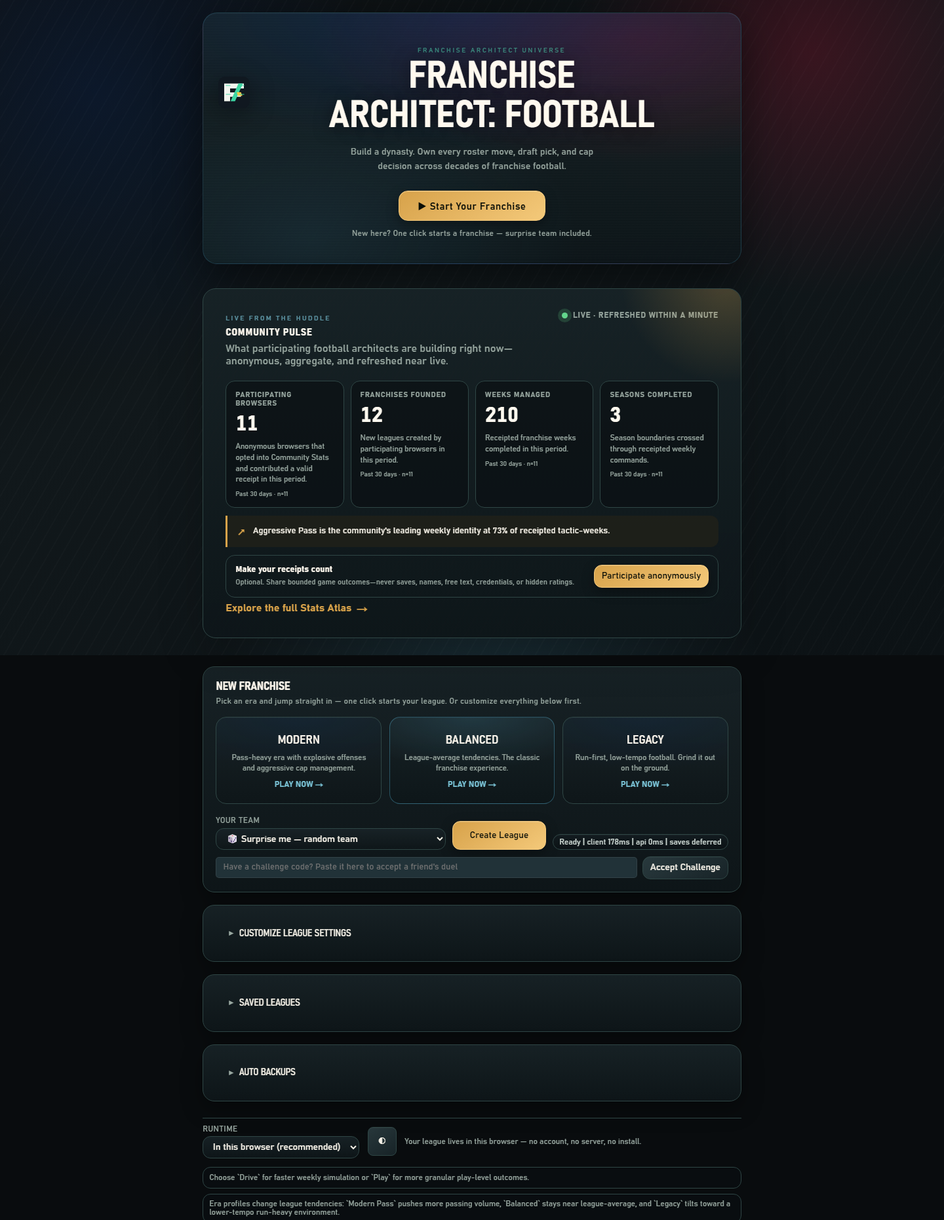
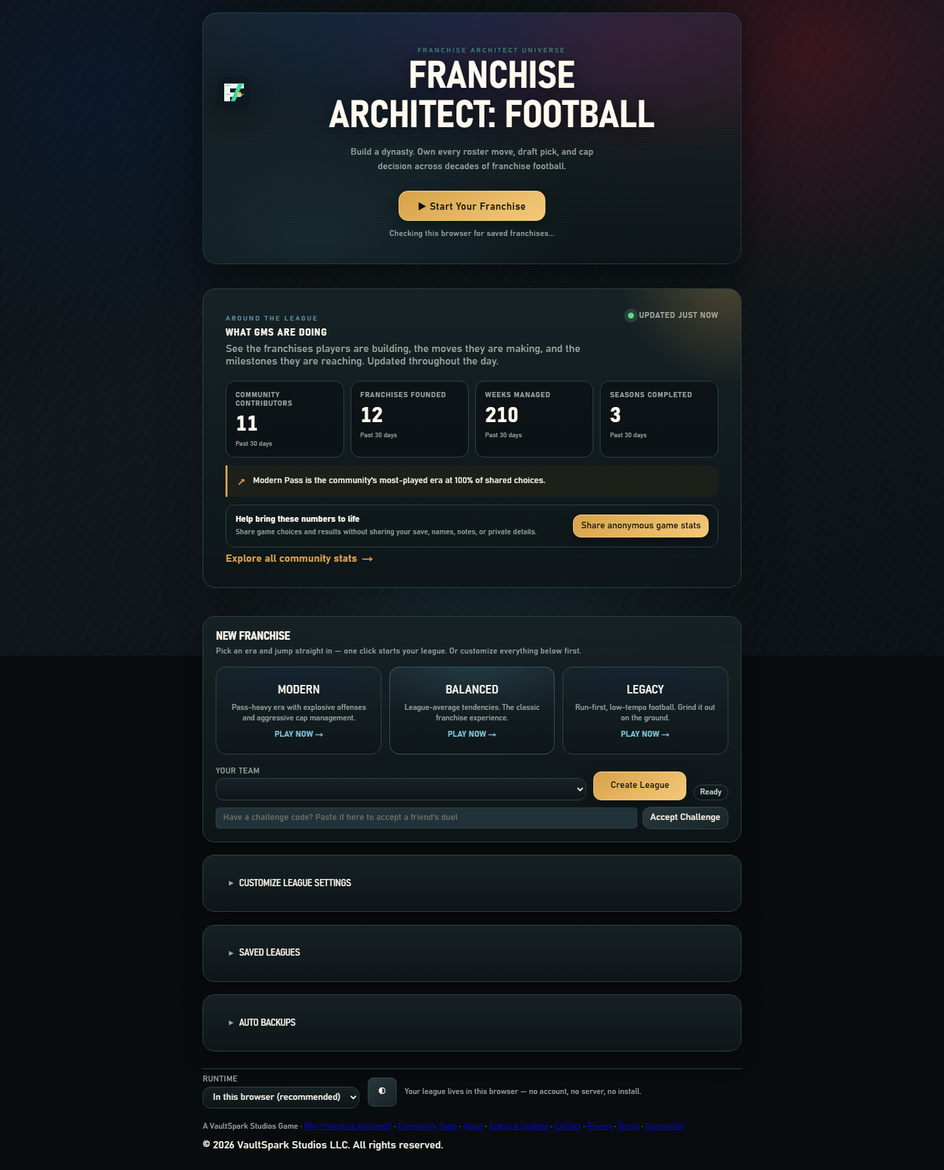
fix: make community stats player friendly

diff --git a/public/community-stats.js b/public/community-stats.js
@@ -1,6 +1,46 @@
 import { COMMUNITY_ENDPOINT, getCommunityParticipation, getLocalCommunityLedger, setCommunityParticipation } from "./lib/communityTelemetry.js";
 
 const PERIOD_LABELS = { "24h": "24 hours", "7d": "7 days", "30d": "30 days" };
+const PLAYER_STAT_LABELS = Object.freeze({
+  "participating-browsers": "Community contributors",
+  "top-era": "Most-played era",
+  "top-archetype": "Most-played franchise challenge",
+  "top-difficulty": "Most-played difficulty",
+  "top-mode": "Most-played simulation mode",
+  "top-tactic": "Most-used weekly approach",
+  "gm-decisions": "GM decisions",
+  "top-contract-band": "Most common contract range",
+  "top-staff-role": "Most-changed coaching role",
+  "playoff-berths": "Playoff-level seasons"
+});
+const PLAYER_STAT_DESCRIPTIONS = Object.freeze({
+  "participating-browsers": "Players who chose to share anonymous game stats during this period.",
+  "franchises-founded": "New franchises started by community contributors.",
+  "weeks-managed": "In-game weeks completed across shared franchises.",
+  "seasons-completed": "Full seasons completed across shared franchises.",
+  "gm-decisions": "Weekly plans that included a General Manager decision.",
+  "trades-completed": "Trades completed by community contributors.",
+  "draft-picks": "Draft selections made by community contributors.",
+  "free-agents-signed": "Free agents signed by community contributors.",
+  "contracts-completed": "Re-signings, negotiations, restructures, tags, and fifth-year options.",
+  "staff-moves": "Coaching changes made by community contributors.",
+  "wins": "Wins earned by community-controlled teams.",
+  "championships": "Championship seasons completed by community contributors.",
+  "playoff-berths": "Seasons with at least nine regular-season wins, used here as a simple playoff-level benchmark.",
+  "challenges-completed": "Speedruns and structured challenges completed by the community.",
+  "rare-feats": "Big achievements such as championships and undefeated seasons.",
+  "top-team": "The team chosen most often by community contributors.",
+  "top-era": "The era selected most often when starting a franchise.",
+  "top-archetype": "The opening franchise challenge selected most often.",
+  "top-difficulty": "The difficulty selected most often across shared franchises.",
+  "top-mode": "The simulation style selected most often.",
+  "top-tactic": "The weekly game plan used most often.",
+  "top-position": "The position drafted most often by community contributors.",
+  "top-challenge": "The structured challenge completed most often.",
+  "top-feat": "The rare achievement reached most often.",
+  "top-contract-band": "The yearly salary range used most often in contract moves.",
+  "top-staff-role": "The coaching role changed most often."
+});
 let activePeriod = "30d";
 let latestSnapshot = null;
 let refreshTimer = null;
@@ -19,28 +59,43 @@ function labelValue(stat) {
 }
 
 function statCard(stat, compact = false) {
-  const share = stat.share != null ? `<span class="community-stat-share">${number(stat.share)}% of eligible receipts</span>` : "";
+  const share = stat.share != null ? `<span class="community-stat-share">${number(stat.share)}% of shared choices</span>` : "";
+  const detail = compact ? "" : `<p>${escapeHtml(PLAYER_STAT_DESCRIPTIONS[stat.id] || "Community activity during this period.")}</p>`;
+  const contributorLabel = `${number(stat.sampleSize)} contributor${Number(stat.sampleSize) === 1 ? "" : "s"}`;
+  const footnote = compact ? stat.period : `${stat.period} · ${contributorLabel}`;
   return `<article class="community-stat ${compact ? "community-stat--compact" : ""}" data-state="${escapeHtml(stat.status)}">
-    <span class="community-stat-label">${escapeHtml(stat.label)}</span>
+    <span class="community-stat-label">${escapeHtml(PLAYER_STAT_LABELS[stat.id] || stat.label)}</span>
     <strong class="community-stat-value">${escapeHtml(labelValue(stat))}</strong>
-    ${share}<p>${escapeHtml(stat.interpretation)}</p>
-    <small>${escapeHtml(stat.period)} · n=${number(stat.sampleSize)}</small>
+    ${share}${detail}
+    <small>${escapeHtml(footnote)}</small>
   </article>`;
 }
 
+function playerInsight(period) {
+  if (!period || period.status === "warming") return "Community trends will appear as more players choose to share their game activity.";
+  if (period.status === "suppressed") return "More players need to share before a trend appears. Individual activity always stays private.";
+  const popularChoice = period.categories
+    ?.flatMap((category) => category.stats || [])
+    .find((stat) => stat.status === "live" && stat.unit === "category" && stat.share != null);
+  if (popularChoice) {
+    return `${labelValue(popularChoice)} is the community's ${String(PLAYER_STAT_LABELS[popularChoice.id] || popularChoice.label).toLowerCase()} at ${number(popularChoice.share)}% of shared choices.`;
+  }
+  return "The latest community trends are taking shape.";
+}
+
 function freshness(snapshot) {
-  if (!snapshot?.computedAt) return "Live aggregate unavailable";
+  if (!snapshot?.computedAt) return "Stats unavailable";
   const seconds = Math.max(0, Math.round((Date.now() - Date.parse(snapshot.computedAt)) / 1000));
-  if (snapshot.status === "stale") return `Last verified snapshot ${Math.max(1, Math.round(seconds / 60))}m ago`;
-  if (seconds < 75) return "Live · refreshed within a minute";
+  if (snapshot.status === "stale") return `Last updated ${Math.max(1, Math.round(seconds / 60))}m ago`;
+  if (seconds < 75) return "Updated just now";
   return `Updated ${Math.max(1, Math.round(seconds / 60))}m ago`;
 }
 
 function participationMarkup() {
   const participating = getCommunityParticipation();
   return `<div class="community-consent" data-participating="${participating}">
-    <div><strong>${participating ? "You're in the huddle" : "Make your receipts count"}</strong><span>${participating ? "Anonymous, allowlisted game receipts are contributing. Your saves remain local." : "Optional. Share bounded game outcomes—never saves, names, free text, credentials, or hidden ratings."}</span></div>
-    <button type="button" class="${participating ? "btn-ghost" : "btn-primary"}" data-community-consent>${participating ? "Stop & delete" : "Participate anonymously"}</button>
+    <div><strong>${participating ? "You're contributing" : "Help bring these numbers to life"}</strong><span>${participating ? "Thanks—only game choices and results are shared. Your save stays on this device." : "Share game choices and results without sharing your save, names, notes, or private details."}</span></div>
+    <button type="button" class="${participating ? "btn-ghost" : "btn-primary"}" data-community-consent>${participating ? "Stop sharing & delete mine" : "Share anonymous game stats"}</button>
   </div>`;
 }
 
@@ -48,24 +103,24 @@ function renderPulse(snapshot) {
   const root = document.querySelector("[data-community-pulse]");
   if (!root) return;
   const period = snapshot?.periods?.[activePeriod];
-  if (!period) { root.dataset.state = "unavailable"; root.querySelector("[data-community-pulse-content]").innerHTML = `<p class="community-empty">The live huddle is temporarily unavailable. Your franchise still plays entirely in this browser.</p>${participationMarkup()}`; bindConsent(root); return; }
+  if (!period) { root.dataset.state = "unavailable"; root.querySelector("[data-community-freshness]").textContent = "Temporarily unavailable"; root.querySelector("[data-community-pulse-content]").innerHTML = `<p class="community-empty">Community stats are taking a timeout. Your franchise is unaffected.</p>${participationMarkup()}`; bindConsent(root); return; }
   root.dataset.state = snapshot.status;
   const headline = period.headline.slice(0, 4);
   root.querySelector("[data-community-freshness]").textContent = freshness(snapshot);
   root.querySelector("[data-community-pulse-content]").innerHTML = `
     <div class="community-pulse-grid">${headline.map((stat) => statCard(stat, true)).join("")}</div>
-    <div class="community-insight"><span aria-hidden="true">↗</span><p>${escapeHtml(period.insights[0] || "The live community baseline is forming.")}</p></div>
+    <div class="community-insight"><span aria-hidden="true">↗</span><p>${escapeHtml(playerInsight(period))}</p></div>
     ${participationMarkup()}`;
   bindConsent(root);
 }
 
-function percentileMessage(value, distribution) {
-  if (!distribution) return "A community comparison will appear when the eligible cohort is large enough.";
-  if (value >= distribution.p90) return "Top 10% of participating browsers in this period";
-  if (value >= distribution.p75) return "Top quarter of participating browsers in this period";
+function percentileMessage(value, distribution, periodStatus) {
+  if (periodStatus !== "live" || !distribution) return "A comparison will appear once enough players are sharing.";
+  if (value >= distribution.p90) return "Top 10% of community contributors in this period";
+  if (value >= distribution.p75) return "Top quarter of community contributors in this period";
   if (value >= distribution.p50) return "Above the community median in this period";
   if (value >= distribution.p25) return "Inside the community's middle range in this period";
-  return "Your local ledger is still early compared with the current cohort";
+  return "Your franchise is still getting started";
 }
 
 function renderComparisons(period) {
@@ -79,7 +134,7 @@ function renderComparisons(period) {
     ["championships", "Championships", ledger.totals.championships],
     ["decisions", "GM decisions", ledger.totals.decisions]
   ];
-  root.innerHTML = rows.map(([key, label, value]) => `<article class="community-comparison"><span>${escapeHtml(label)}</span><strong>${number(value)}</strong><p>${escapeHtml(percentileMessage(value, period.comparisons?.[key]))}</p></article>`).join("");
+  root.innerHTML = rows.map(([key, label, value]) => `<article class="community-comparison"><span>${escapeHtml(label)}</span><strong>${number(value)}</strong><p>${escapeHtml(percentileMessage(value, period.comparisons?.[key], period.status))}</p></article>`).join("");
 }
 
 function renderAtlas(snapshot) {
@@ -90,15 +145,15 @@ function renderAtlas(snapshot) {
   if (consentShell) { consentShell.innerHTML = participationMarkup(); bindConsent(consentShell); }
   document.querySelectorAll("[data-community-period]").forEach((button) => { const active = button.dataset.communityPeriod === activePeriod; button.classList.toggle("is-active", active); button.setAttribute("aria-pressed", String(active)); });
   const status = document.querySelector("[data-community-atlas-status]");
-  if (status) status.textContent = snapshot ? `${freshness(snapshot)} · ${period?.label || "No period"}` : "Live aggregate unavailable";
-  if (!period) { root.innerHTML = `<div class="community-empty"><h2>The Stats Atlas is offline</h2><p>No franchise data is affected. This page will reconnect automatically.</p></div>`; return; }
+  if (status) status.textContent = snapshot ? `${freshness(snapshot)} · ${period?.label || "No period"}` : "Stats unavailable";
+  if (!period) { root.innerHTML = `<div class="community-empty"><h2>Community stats are taking a timeout</h2><p>We will keep trying. Your franchise is unaffected.</p></div>`; return; }
   root.innerHTML = period.categories.map((category, index) => `<section class="community-category" id="${escapeHtml(category.id)}">
     <div class="community-category-head"><span>${String(index + 1).padStart(2, "0")}</span><h2>${escapeHtml(category.label)}</h2></div>
     <div class="community-atlas-grid">${category.stats.map((stat) => statCard(stat)).join("")}</div>
   </section>`).join("");
   renderComparisons(period);
   const insight = document.querySelector("[data-community-atlas-insight]");
-  if (insight) insight.textContent = period.insights.join(" ");
+  if (insight) insight.textContent = playerInsight(period);
 }
 
 function bindConsent(scope = document) {

diff --git a/public/stats.html b/public/stats.html
@@ -4,12 +4,13 @@
     <meta charset="UTF-8" />
     <meta name="viewport" content="width=device-width, initial-scale=1.0" />
     <meta name="fa-community-api" content="https://api-franchise-architect-football.vaultsparkstudios.com/community/v1" />
-    <title>Community Stats Atlas — Franchise Architect: Football</title>
-    <meta name="description" content="Near-live, privacy-bounded community statistics from participating Franchise Architect: Football browsers." />
-    <meta property="og:title" content="Community Stats Atlas — Franchise Architect: Football" />
-    <meta property="og:description" content="See how participating football architects build, draft, trade, and chase dynasties." />
+    <title>Community Stats — Franchise Architect: Football</title>
+    <meta name="description" content="See how Franchise Architect players build, draft, trade, and chase championships." />
+    <meta property="og:title" content="Community Stats — Franchise Architect: Football" />
+    <meta property="og:description" content="See the choices Franchise Architect GMs are making across the community." />
     <meta property="og:type" content="website" />
-    <meta property="og:url" content="https://playfranchisearchitect.com/stats.html" />
+    <meta property="og:url" content="https://playfranchisearchitect.com/stats" />
+    <link rel="canonical" href="https://playfranchisearchitect.com/stats" />
     <link rel="icon" href="./favicon.svg" type="image/svg+xml" />
     <script src="./lib/themeBoot.js"></script>
     <link rel="stylesheet" href="./styles.css" />
@@ -19,7 +20,7 @@
     <main class="setup-wrap community-atlas-wrap">
       <nav class="community-breadcrumb" aria-label="Breadcrumb"><a href="./index.html">Franchise Architect</a><span aria-hidden="true">/</span><span>Community Stats</span><button id="setupThemeToggleBtn" class="theme-toggle-btn" type="button" title="Toggle theme">◐</button></nav>
       <header class="community-atlas-hero">
-        <div><span class="brand-kicker">The living league</span><h1>Community Stats Atlas</h1><p>What participating football architects are building—updated near live from anonymous, allowlisted game receipts.</p></div>
+        <div><span class="brand-kicker">Across the community</span><h1>Community Stats</h1><p>See how other GMs build their teams, work the market, attack the draft, and chase championships. Updated throughout the day.</p></div>
         <div class="community-live-orbit" aria-hidden="true"><span></span><i></i></div>
       </header>
       <section class="community-command-bar" aria-label="Stats period">
@@ -28,23 +29,23 @@
           <button type="button" data-community-period="7d" aria-pressed="false">7D</button>
           <button type="button" data-community-period="30d" class="is-active" aria-pressed="true">30D</button>
         </div>
-        <span data-community-atlas-status role="status" aria-live="polite">Connecting to the live huddle…</span>
+        <span data-community-atlas-status role="status" aria-live="polite">Loading the latest numbers…</span>
       </section>
-      <aside class="community-atlas-insight"><span>FIELD NOTE</span><p data-community-atlas-insight>The live baseline is loading.</p></aside>
+      <aside class="community-atlas-insight"><span>COMMUNITY NOTE</span><p data-community-atlas-insight>Checking the latest trends…</p></aside>
       <div data-community-atlas aria-live="polite" aria-busy="false"><div class="community-skeleton-grid" aria-label="Loading Community Stats"><i></i><i></i><i></i><i></i></div></div>
       <section class="community-local-section">
-        <div class="community-category-head"><span>YOU</span><div><h2>Your franchise vs. the huddle</h2><p>Computed only from this browser's bounded local ledger. Nothing extra is uploaded.</p></div></div>
+        <div class="community-category-head"><span>YOU</span><div><h2>Your franchise vs. the community</h2><p>Your totals are calculated on this device and stay here.</p></div></div>
         <div class="community-comparison-grid" data-community-comparisons></div>
       </section>
       <section class="community-method" id="methodology">
         <div><span class="brand-kicker">Methodology</span><h2>Honest by construction</h2></div>
         <div class="community-method-grid">
-          <article><strong>Who is counted?</strong><p>Participating anonymous browsers—not all users or all humans. One browser can represent one or more players.</p></article>
-          <article><strong>What is collected?</strong><p>Allowlisted categories and bounded numbers derived after successful game commands: starts, weeks, decisions, tactics, transactions, drafts, outcomes, challenges, and rare feats.</p></article>
-          <article><strong>What stays local?</strong><p>Full saves, names, free text, email, credentials, raw player identifiers, hidden ratings, and narrative history never enter Community Stats.</p></article>
-          <article><strong>How is privacy protected?</strong><p>Collection is opt-in. Browser identifiers are one-way hashed, internet protocol addresses are never stored, raw receipts expire after 30 days, duplicate and abusive contributions are rejected, and behavioral cells remain hidden below five browsers.</p></article>
-          <article><strong>How live is live?</strong><p>The public snapshot is recomputed at most once per minute and clients check every 30 seconds only while visible. Stale or unavailable data says so.</p></article>
-          <article><strong>What does it prove?</strong><p>It describes validated client-reported receipts. It does not prove causality, identity, total adoption, retention, or real-world football outcomes.</p></article>
+          <article><strong>Who is included?</strong><p>Only players who choose to share anonymous game stats. It is a community sample, not every Franchise Architect player.</p></article>
+          <article><strong>What is shared?</strong><p>Game choices and results such as league starts, weeks played, tactics, trades, draft picks, wins, challenges, and milestones.</p></article>
+          <article><strong>What stays private?</strong><p>Your full save, names, notes, email, credentials, player identities, hidden ratings, and story history never become Community Stats.</p></article>
+          <article><strong>How is privacy protected?</strong><p>Sharing is optional. Internet Protocol addresses are not stored, activity expires after 30 days, and a trend stays hidden until at least five contributors are represented.</p></article>
+          <article><strong>How fresh are the numbers?</strong><p>The community totals can refresh about once a minute. The page clearly says when an update is delayed or unavailable.</p></article>
+          <article><strong>What do these numbers mean?</strong><p>They show how participating players are using the game. They are not a count of every player or proof that one choice caused an outcome.</p></article>
         </div>
 
 

diff --git a/public/index.html b/public/index.html
@@ -66,11 +66,11 @@
       </section>
       <section class="community-pulse" data-community-pulse data-state="loading" aria-labelledby="communityPulseTitle">
         <div class="community-pulse-head">
-          <div><span class="brand-kicker">Live from the huddle</span><h2 id="communityPulseTitle">Community Pulse</h2><p>What participating football architects are building right now—anonymous, aggregate, and refreshed near live.</p></div>
+          <div><span class="brand-kicker">Around the league</span><h2 id="communityPulseTitle">What GMs are doing</h2><p>See the franchises players are building, the moves they are making, and the milestones they are reaching. Updated throughout the day.</p></div>
           <div class="community-live-mark"><span></span><strong data-community-freshness role="status" aria-live="polite">Connecting…</strong></div>
         </div>
         <div data-community-pulse-content aria-live="polite"><div class="community-skeleton-grid" aria-label="Loading Community Stats"><i></i><i></i><i></i><i></i></div></div>
-        <a class="community-atlas-link" href="./stats.html">Explore the full Stats Atlas <span aria-hidden="true">→</span></a>
+        <a class="community-atlas-link" href="/stats">Explore all community stats <span aria-hidden="true">→</span></a>
       </section>
 
       <!-- ── QUICK START ── -->
@@ -227,7 +227,7 @@
         <button id="setupThemeToggleBtn" class="theme-toggle-btn" type="button" title="Toggle theme">◐</button>
         <span id="runtimeModeDescription" class="small">Your league lives in this browser — no account, no server, no install.</span>
         <div id="setupGuideContent" class="stack small"></div>
-        <span class="small" style="color:var(--muted,#7a8299);margin-top:8px;display:block">A <a href="https://vaultsparkstudios.com/" rel="author" target="_blank" style="color:inherit;text-decoration:none">VaultSpark Studios</a> Game · <a href="./landing.html">Why Franchise Architect?</a> · <a href="./stats.html">Community Stats</a> · <a href="./about.html">About</a> · <a href="./status.html">Status &amp; Updates</a> · <a href="./contact.html">Contact</a> · <a href="./privacy.html">Privacy</a> · <a href="./terms.html">Terms</a> · <a href="https://github.com/VaultSparkStudios/vaultspark-football-gm/discussions" target="_blank" rel="noopener">Community</a></span>
+        <span class="small" style="color:var(--muted,#7a8299);margin-top:8px;display:block">A <a href="https://vaultsparkstudios.com/" rel="author" target="_blank" style="color:inherit;text-decoration:none">VaultSpark Studios</a> Game · <a href="./landing.html">Why Franchise Architect?</a> · <a href="/stats">Community Stats</a> · <a href="./about.html">About</a> · <a href="./status.html">Status &amp; Updates</a> · <a href="./contact.html">Contact</a> · <a href="./privacy.html">Privacy</a> · <a href="./terms.html">Terms</a> · <a href="https://github.com/VaultSparkStudios/vaultspark-football-gm/discussions" target="_blank" rel="noopener">Community</a></span>
             <span class="studio-copyright" data-studio-copyright>© 2026 VaultSpark Studios LLC. All rights reserved.</span>
 </footer>
 

diff --git a/test/service-worker-precache.test.js b/test/service-worker-precache.test.js
@@ -26,6 +26,8 @@ async function fixtureMount() {
   await fs.writeFile(path.join(dir, "lib", "core.js"), "export const x = 1;");
   await fs.writeFile(path.join(dir, "styles.css"), ":root{}");
   await fs.writeFile(path.join(dir, "styles.abc123def0.css"), ":root{}");
+  await fs.writeFile(path.join(dir, "community-stats.js"), "export const copy = 'old';");
+  await fs.writeFile(path.join(dir, "community-stats.abc123def0.js"), "export const copy = 'new';");
   await fs.writeFile(path.join(dir, "_health"), "{}");
   await fs.writeFile(path.join(dir, "deploy-manifest.json"), "{}");
   await fs.writeFile(path.join(dir, "_headers"), "X: y");
@@ -42,6 +44,8 @@ test("evidence and freshness surfaces are never precached", () => {
   assert.equal(shouldPrecache("photo.bin"), false, "unknown binaries stay out of the manifest");
   assert.equal(shouldPrecache("styles.css"), false, "plain styles.css duplicates the hashed stylesheet (S70)");
   assert.equal(shouldPrecache("styles.abc123def0.css"), true, "the hashed stylesheet is the one HTML references");
+  assert.equal(shouldPrecache("community-stats.js"), false, "the stale-prone plain Community Pulse module is not precached");
+  assert.equal(shouldPrecache("community-stats.abc123def0.js"), true, "the content-hashed Community Pulse module is precached");
 });
 
 test("manifest is deterministic, content-versioned, and byte-accounted", async () => {
@@ -49,8 +53,9 @@ test("manifest is deterministic, content-versioned, and byte-accounted", async (
   const first = await buildPrecacheManifest(dir);
   const second = await buildPrecacheManifest(dir);
   assert.deepEqual(first, second, "same content, same manifest");
-  assert.equal(first.assetCount, 4, "html + 2 js + hashed css (plain styles.css deduped)");
+  assert.equal(first.assetCount, 5, "html + 2 js + hashed CSS + hashed Community Pulse (plain assets deduped)");
   assert.ok(!first.assets.some((asset) => asset.url === "./styles.css"), "plain styles.css never precached twice");
+  assert.ok(!first.assets.some((asset) => asset.url === "./community-stats.js"), "plain Community Pulse module is never precached");
   assert.ok(first.totalBytes > 0);
   assert.ok(first.assets.every((asset) => asset.url.startsWith("./")));
   assert.ok(!first.assets.some((asset) => asset.url.includes("_health")));
@@ -87,6 +92,7 @@ test("the build injects registration into app shells and the app listens", async
   const buildSource = await fs.readFile(new URL("../scripts/build-pages.mjs", import.meta.url), "utf8");
   assert.match(buildSource, /emitServiceWorker\(outDir\)/);
   assert.match(buildSource, /SW_REGISTRATION_SNIPPET/);
+  assert.match(buildSource, /emitHashedCommunityStats\(\)/, "Community Pulse ships at a cache-safe content URL");
   const appSource = await fs.readFile(new URL("../public/app.js", import.meta.url), "utf8");
   assert.match(appSource, /vsfgm:sw-updated/, "app shows the update toast");
   const devHtml = await fs.readFile(new URL("../public/game.html", import.meta.url), "utf8");

diff --git a/test/staging-receipt.test.js b/test/staging-receipt.test.js
@@ -9,7 +9,8 @@ const expected = {
   repository: "VaultSparkStudios/vaultspark-football-gm",
   sourceRevision: "session52",
   artifactFingerprint: { algorithm: "sha256", digest: "a".repeat(64), files: 42, exclusions: ["_health", "deploy-manifest.json"] },
-  styleAsset: "styles.session52.css"
+  styleAsset: "styles.session52.css",
+  communityStatsAsset: "community-stats.session52.js"
 };
 
 function response(route, body, { origin = "https://staging.example.test", redirect = false } = {}) {
@@ -32,6 +33,7 @@ function fixture({ crossOriginHealth = false } = {}) {
       sourceRevision: expected.sourceRevision,
       artifactFingerprint: expected.artifactFingerprint,
       styleAsset: expected.styleAsset,
+      communityStatsAsset: expected.communityStatsAsset,
       launchReady: false
     }, crossOriginHealth ? { origin: "https://production.example.test", redirect: true } : {}),
     "/deploy-manifest.json": response("/deploy-manifest.json", expected),
@@ -40,6 +42,12 @@ function fixture({ crossOriginHealth = false } = {}) {
       statusCode: 200,
       body: "body{}",
       chain: [{ url: `${baseUrl}styles.session52.css`, statusCode: 200 }]
+    },
+    "/community-stats.session52.js": {
+      ok: true,
+      statusCode: 200,
+      body: "export {};",
+      chain: [{ url: `${baseUrl}community-stats.session52.js`, statusCode: 200 }]
     }
   } };
 }
@@ -48,6 +56,16 @@ test("same-origin staging receipts prove exact health, revision, asset, and repo
   const report = await buildStagingReceiptReport({ expected, baseUrl, fixture: fixture() });
   assert.equal(report.summary.status, "verified");
   assert.equal(report.summary.checksPassed, report.summary.checksTotal);
+  assert.equal(report.checks.find((check) => check.name === "Community Stats asset reachable").ok, true);
+});
+
+test("staging stays blocked while the declared Community Stats asset is missing", async () => {
+  const missing = fixture();
+  missing.routes["/community-stats.session52.js"].ok = false;
+  missing.routes["/community-stats.session52.js"].statusCode = 404;
+  const report = await buildStagingReceiptReport({ expected, baseUrl, fixture: missing });
+  assert.equal(report.summary.status, "blocked");
+  assert.equal(report.checks.find((check) => check.name === "Community Stats asset reachable").ok, false);
 });
 
 test("cross-origin redirect is HOLD even when the final body looks healthy", async () => {

diff --git a/test/public-compliance.test.js b/test/public-compliance.test.js
@@ -68,6 +68,24 @@ test("index footer links the landing marketing page", () => {
   assert.match(index, /href="\.\/landing\.html"/, "index links landing.html");
 });
 
+test("Community Stats uses its clean canonical route and player-first homepage copy", () => {
+  const index = fs.readFileSync(new URL("../public/index.html", import.meta.url), "utf8");
+  const stats = fs.readFileSync(new URL("../public/stats.html", import.meta.url), "utf8");
+  const client = fs.readFileSync(new URL("../public/community-stats.js", import.meta.url), "utf8");
+  assert.match(index, /href="\/stats"/, "homepage links the redirect-free canonical route");
+  assert.doesNotMatch(index, /href="\.\/stats\.html"/, "homepage does not send players through the HTML redirect");
+  assert.match(stats, /rel="canonical" href="https:\/\/playfranchisearchitect\.com\/stats"/);
+  assert.doesNotMatch(index, /participating football architects|anonymous, aggregate|refreshed near live/i);
+  assert.doesNotMatch(stats, /allowlisted game receipts|bounded local ledger/i);
+  assert.doesNotMatch(client, /eligible receipts|Live aggregate unavailable|n=\$\{/i);
+  assert.doesNotMatch(client, /stat\.interpretation|period\.insights/, "the public UI never renders backend analytics language directly");
+  assert.match(client, /PLAYER_STAT_DESCRIPTIONS/, "every expanded metric uses curated player-language copy");
+  assert.match(client, /periodStatus !== "live"/, "warming or private samples never claim a percentile rank");
+  assert.match(client, /Share anonymous game stats/);
+  assert.match(client, /data-community-freshness.*Temporarily unavailable/, "failed loads resolve the homepage status instead of leaving Connecting visible");
+  assert.doesNotMatch(client, /Stats Atlas is offline/, "error copy remains player-facing");
+});
+
 test("primary public pages link contact, privacy, and terms", () => {
   for (const file of ["../public/index.html", "../public/game.html", "../public/landing.html"]) {
     const source = fs.readFileSync(new URL(file, import.meta.url), "utf8");

diff --git a/public/privacy.html b/public/privacy.html
@@ -21,7 +21,7 @@
           <h2>Optional Community Stats</h2>
           <p>Community Stats is off until the player chooses to participate. After a successful game command, the browser may share an allowlisted receipt containing categories and bounded numbers such as league settings, weeks completed, tactics, transactions, draft positions, and outcomes.</p>
           <p>Community Stats never receives full saves, names, email, free text, credentials, raw player identifiers, hidden ratings, or narrative history. A random browser identifier is one-way hashed by the service; internet protocol addresses are used only in an in-memory rate limiter and are never stored. Raw receipts expire after 30 days, public behavioral cells require at least five participating browsers, and stopping participation requests deletion of receipts tied to the browser identifier.</p>
-          <p>The public denominator is <strong>participating anonymous browsers</strong>, not all players or all humans. See the <a href="./stats.html#methodology">full methodology</a>.</p>
+          <p>The public denominator is <strong>participating anonymous browsers</strong>, not all players or all humans. See the <a href="/stats#methodology">full methodology</a>.</p>
         </div>        <div class="panel">
           <h2>Feedback</h2>
           <p>The in-game feedback path opens a public GitHub issue draft with public-safe game context. It does not attach personal account data or full save payloads.</p>

diff --git a/context/ANALYTICS_HOOKS.md b/context/ANALYTICS_HOOKS.md
@@ -9,7 +9,7 @@ Public-safe product instrumentation map. Detailed operator procedures remain in 
 - Event contract: `public/lib/communityEventContract.js`
 - Server validation/ingest: `src/community/server.js`
 - Aggregation authority: `src/community/aggregateCommunitySnapshot.js`
-- Human surface: `/stats.html`
+- Human surface: `/stats` (source: `public/stats.html`)
 - Machine twin: `https://api-franchise-architect-football.vaultsparkstudios.com/community/v1/snapshot`
 
 Community Stats is aggregate product feedback, not identity analytics. Raw receipts remain project-owned. Analytica may consume only the public sanitized snapshot; it must not receive raw receipts, participant hashes, browser identifiers, or save state.

diff --git a/docs/COMMUNITY_STATS.md b/docs/COMMUNITY_STATS.md
@@ -18,7 +18,7 @@ Community Stats is an optional, near-live aggregate of successful Franchise Arch
 - `DELETE /community/v1/participation` — deletes receipts associated with the supplied anonymous browser identifier.
 - `GET /community/v1/health` — database/schema readiness.
 
-The routes are exposed through `api-franchise-architect-football.vaultsparkstudios.com`. The human atlas is `/stats.html`; `public/stats-surface.json` is the checkable CANON-054 descriptor.
+The routes are exposed through `api-franchise-architect-football.vaultsparkstudios.com`. The canonical human atlas is `/stats` (source: `public/stats.html`); `public/stats-surface.json` is the checkable CANON-054 descriptor.
 
 ## Categories
 
